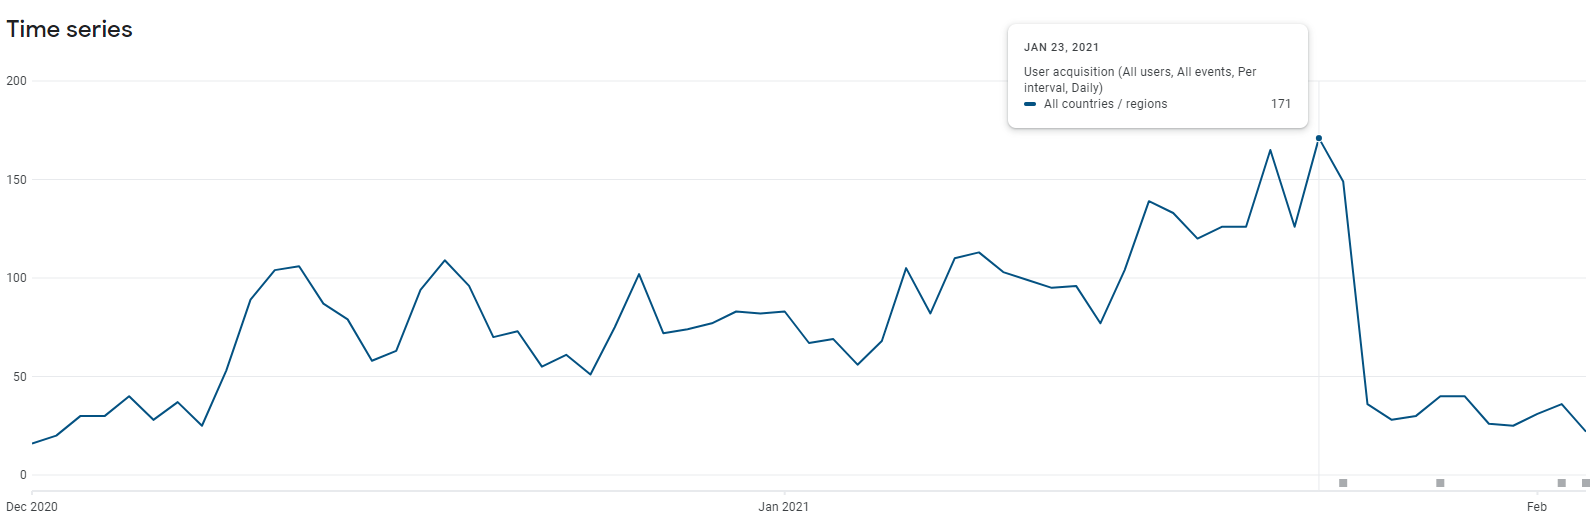
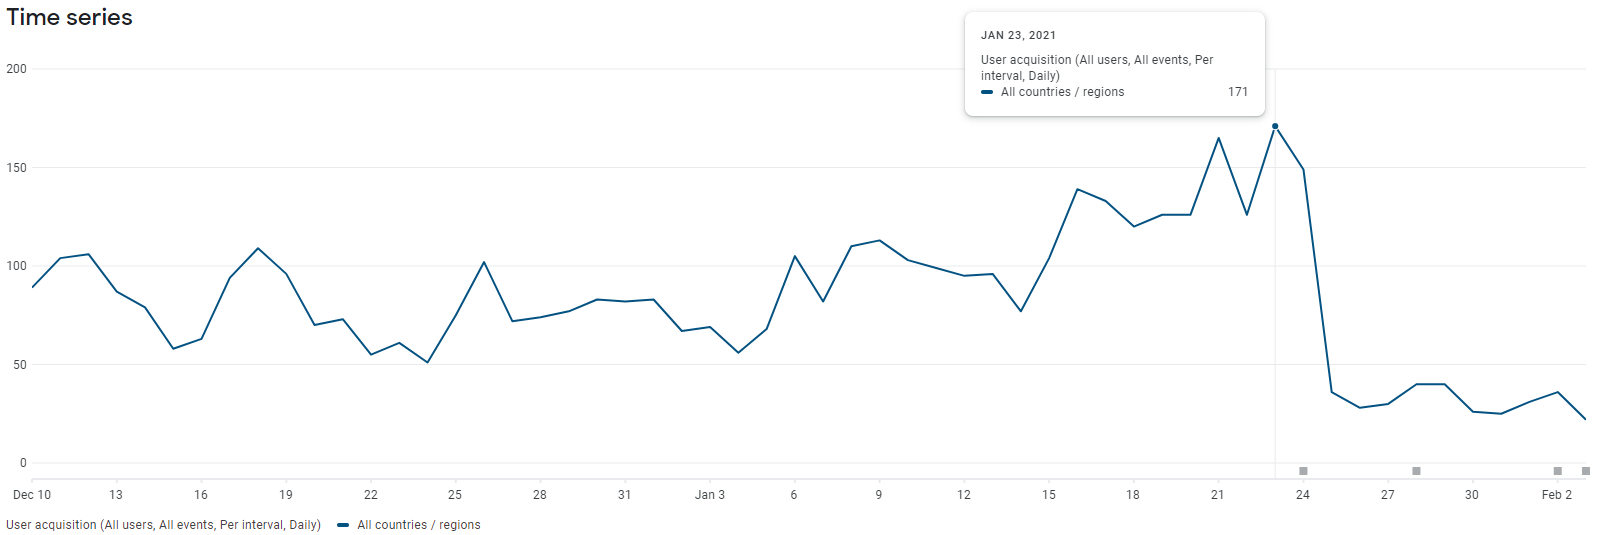
pitch edit

diff --git a/cyber-soldier_pitch/index.html b/cyber-soldier_pitch/index.html
@@ -297,10 +297,11 @@ p {
 <br />The project has been alive for quite a long time, during this time we managed to fix a lot of bugs in the game and add improvements.
 <br /></p>
 <br /><h3><span style="font-weight: bolder;">/ Metrics:</span></h3>
-<p>There have been 83 downloads in the last month (November 2023). The promotion of the game was not used. This is far from the best period in the life of the project, there was a time when downloads were gaining momentum and reached 171 downloads in a day, but then we changed the name from Achernar to Cyber Soldier (and probably some other gross mistakes) and the metric abruptly hit zero the very next day (January 24, 2021).
+<p>There have been 83 downloads in the last month (November 2023). The promotion of the game was not used. This is far from the best period in the life of the project, there was a time when downloads were gaining momentum and reached 171 downloads in a day, but then we changed the name from Achernar to Cyber Soldier (and probably some other gross mistakes) and the metric abruptly hit zero the very next day (January 25, 2021).
 <br />It didn't work out much from the project yet, but it wasn't supposed to, because the game is only now good enough and thought out.
 <br /></p>
 <img src="https://wnaturegames.github.io/wp-content/uploads/2023/Screenshot 2023-12-02 164709.png" />
+<br />
 <br /><h3><span style="font-weight: bolder;">/ Competition, how does the game differ from others:</span></h3>
 <p>܀ Unique gameplay.
 <br />܀ The ability to play both online and offline. At the same time, progress is maintained. This is generally a unique, complex feature of the game.
